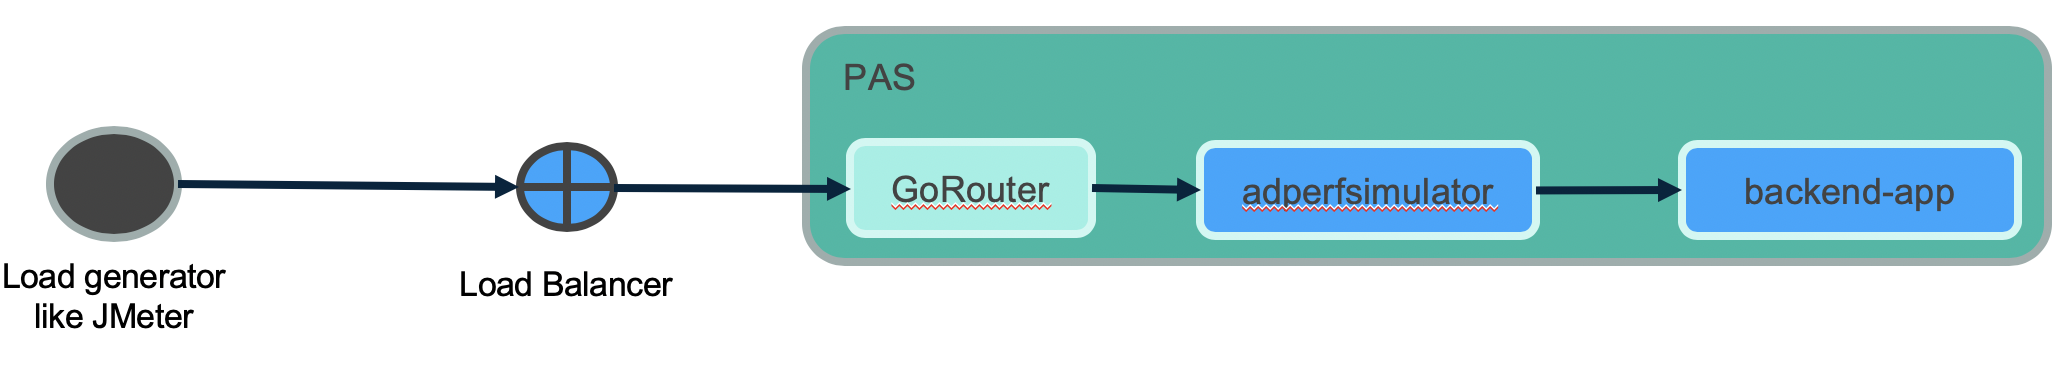
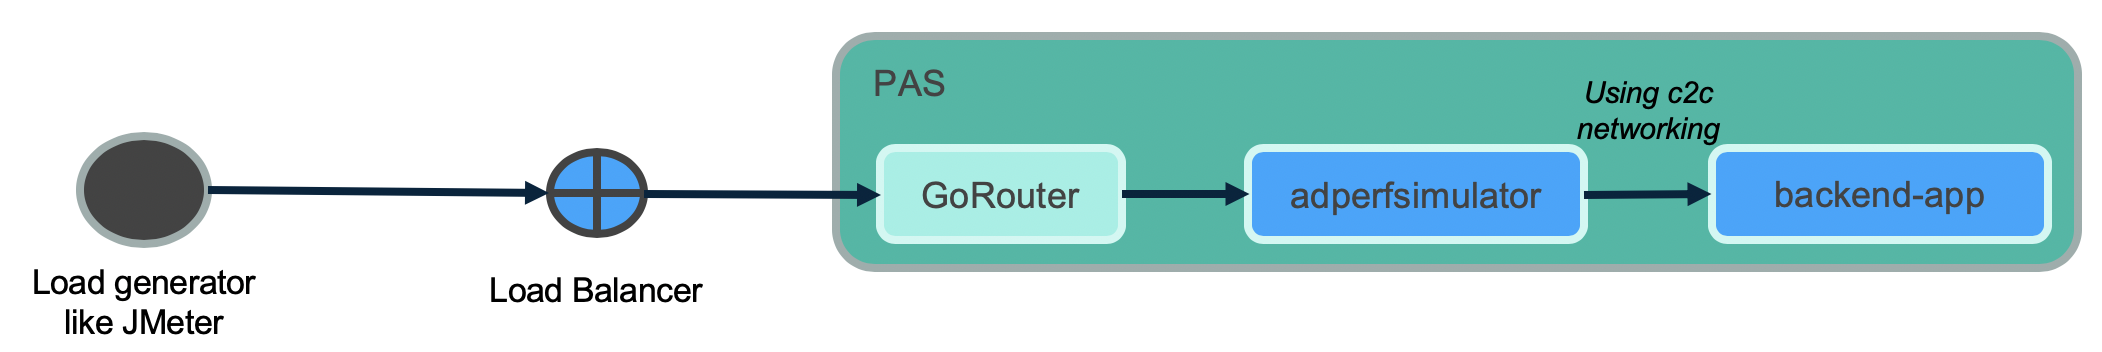
Including steps for internal and external domain

Changed region(s): [[0.0, 0.0625, 1.0, 0.9688], [0.2171, 0.7188, 0.3411, 0.875], [0.7442, 0.2188, 0.8372, 0.3125]]

diff --git a/springboot-app-simulator-doc.md b/springboot-app-simulator-doc.md
@@ -17,16 +17,39 @@ __Simulate latency by hitting backend app via app using Internal domain (c2c net
 
 * (1000 ms) <//adperformancesimulator.apps.myenv.com>/a2a/delay/1000
 
+``` 
+# set registration Method as direct and add c2c network policy
+spring.cloud.services.registrationMethod=direct
+
+```
+
 ![Flow: App to App](images/flow-app-backendapp.png)
+
+
+
+__Simulate latency by hitting backend app via app using External domain (Via GoRouter)__
+
+``` 
+# set registration Method as route (default)
+spring.cloud.services.registrationMethod=route
+
+```
+
+* (1000 ms) <//adperformancesimulator.apps.myenv.com>/a2a/delay/1000
+
+![Flow: App to App](images/flow-app-backendapp-viagorouter.png)
+
 
 __Simulate error__, to log errors and can be useful to test scalability of log flow
 
 * <//adperformancesimulator.apps.myenv.com>/simulate/error
 
+
 __Simulate memory__, to push app's memory usage in MB
 
 * (1 MB) <//adperformancesimulator.apps.myenv.com>/simulate/memory
 * (5 MB) <//adperformancesimulator.apps.myenv.com>/simulate/memory/5
+
 
 __Simulate cpu usage__, to increase app's CPU usage
 

diff --git a/README.md b/README.md
@@ -56,7 +56,7 @@ cf push --vars-file=vars-myenv.yml
 * Add network policy to allow container to container networking
 
 ```
-cf add-network-policy backend-app --destination-app backend-app --protocol tcp --port 8080
+cf add-network-policy adperfsimulator --destination-app backend-app --protocol tcp --port 8080
 ```
 
 
